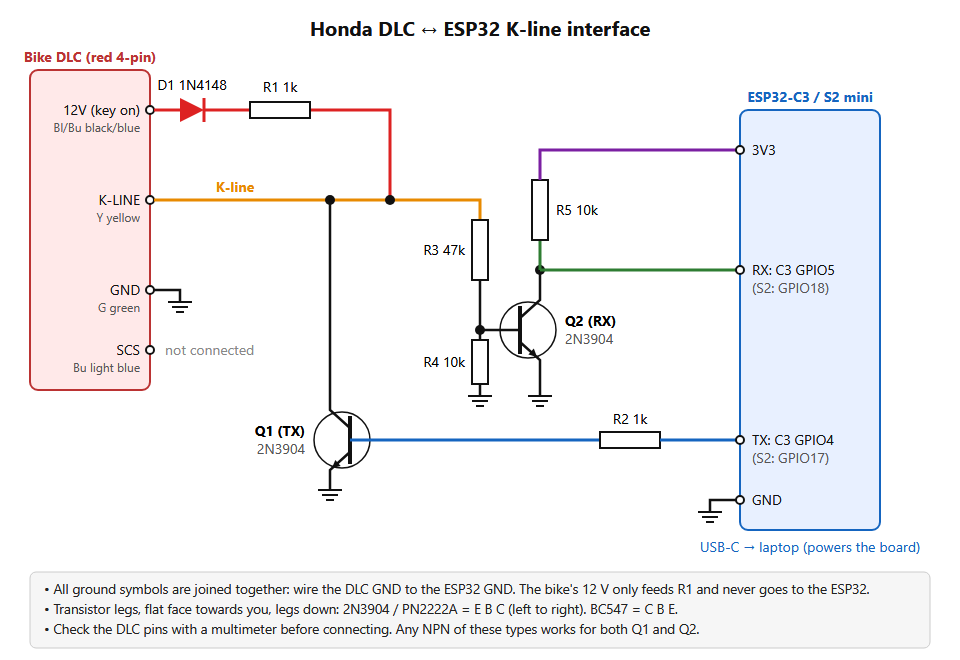
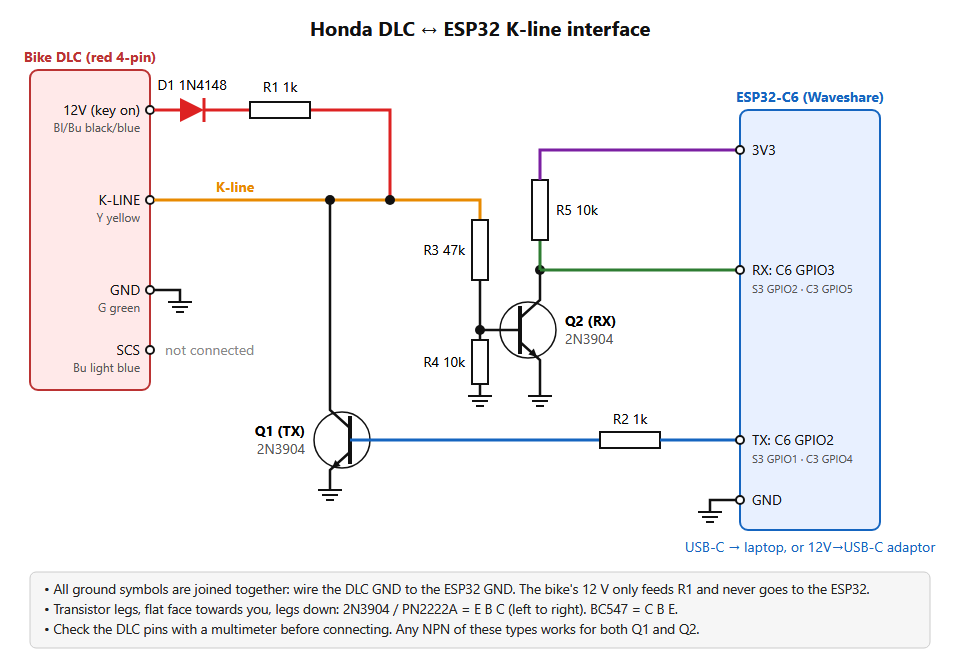
C6 is the main board: diagram, pin table, bike power notes

diff --git a/README.md b/README.md
@@ -1,17 +1,17 @@
 # Honda DLC Scanner (CBR250R 2011-13, MC41)
 
-Reads live engine data and fault codes from the 4-pin red Honda DLC under the seat. It uses an ESP32-C3 (or ESP32-S2 mini) as a
+Reads live engine data and fault codes from the 4-pin red Honda DLC under the seat. It uses an ESP32 board (main: Waveshare ESP32-C6-LCD-1.47; also ESP32-S3, C3 or S2 mini) as a
 USB-to-K-line bridge and a Python app on the PC.
 
 ```
-Bike DLC ──K-line── 2-transistor interface ── ESP32-C3 ──USB── PC (dlc_gui.py / honda_dlc.py)
+Bike DLC ──K-line── 2-transistor interface ── ESP32-C6 ──USB── PC (dlc_gui.py / honda_dlc.py)
 ```
 
 ## Parts
 
 | Part | Notes |
 |---|---|
-| ESP32-C3 board (e.g. C3 SuperMini) or ESP32-S2 mini | the bridge; powered from the PC's USB |
+| ESP32 board: Waveshare ESP32-C6-LCD-1.47 (main), ESP32-S3, C3 or S2 mini | the bridge; powered over USB-C from the PC, or from a 12 V→USB-C adaptor on the bike |
 | 2 × NPN transistor | 2N3904, BC547 or 2N2222 |
 | 1 × 1 kΩ | Q1 base resistor |
 | 1 × 1 kΩ (½ W is fine) | K-line pull-up to 12 V |
@@ -29,7 +29,18 @@ brought down to 3.3 V, and set `KLINE_INVERTED = false` in the firmware.
 
 ![Wiring diagram](docs/wiring.svg)
 
-Pins: **C3: TX = GPIO4, RX = GPIO5**. S2 mini: TX = GPIO17, RX = GPIO18. The firmware picks them from the chip.
+Pins (the firmware picks them from the chip):
+
+| Board | TX (to R2/Q1) | RX (from Q2/R5) | Avoid |
+|---|---|---|---|
+| **Waveshare ESP32-C6-LCD-1.47** (main) | **GPIO2** | **GPIO3** | 12/13 (USB), 9 (BOOT), 4-7 (SD/LCD) |
+| Waveshare ESP32-S3-LCD-1.47 | GPIO1 | GPIO2 | |
+| ESP32-C3 | GPIO4 | GPIO5 | 18/19 (USB) |
+| ESP32-S2 mini | GPIO17 | GPIO18 | |
+
+**Powering it on the bike** with a 12 V→USB-C adaptor: feed the adaptor from the key-switched Bl/Bu wire (fused,
+1 A) so it can't flatten the battery. Still wire the DLC ground (G) to the board GND. Unplug the adaptor when you
+plug in the laptop (one USB-C port).
 
 Text version:
 
